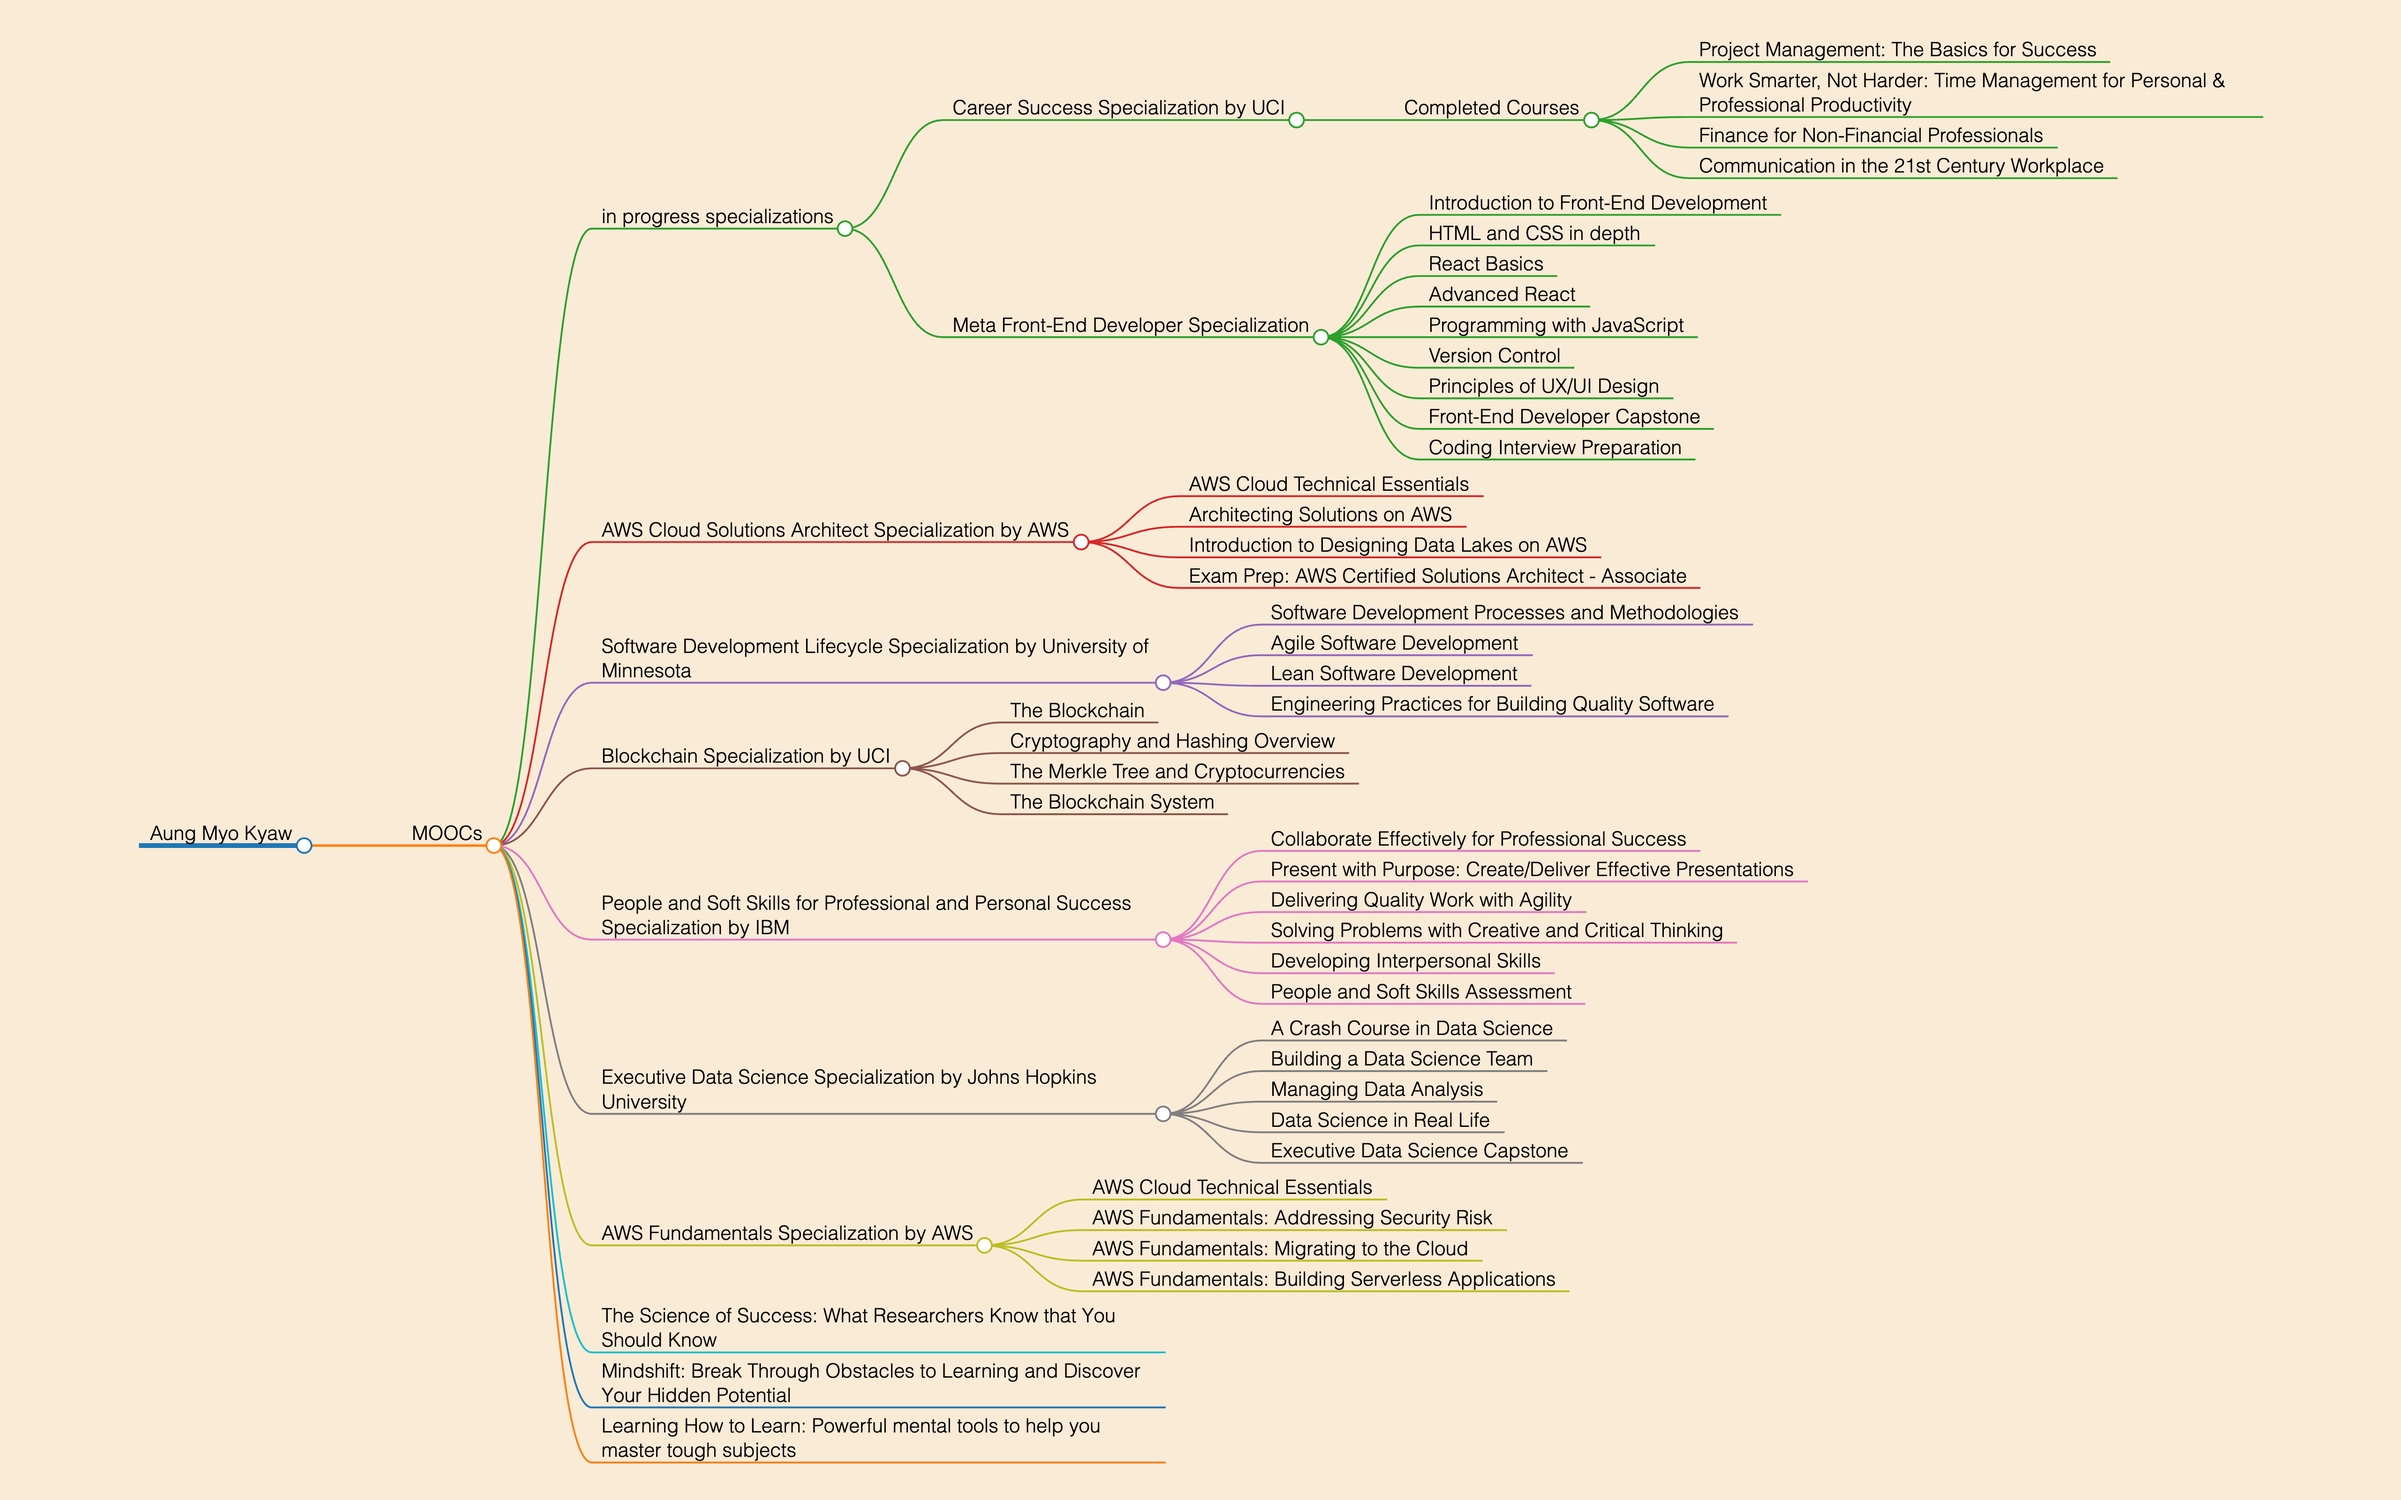
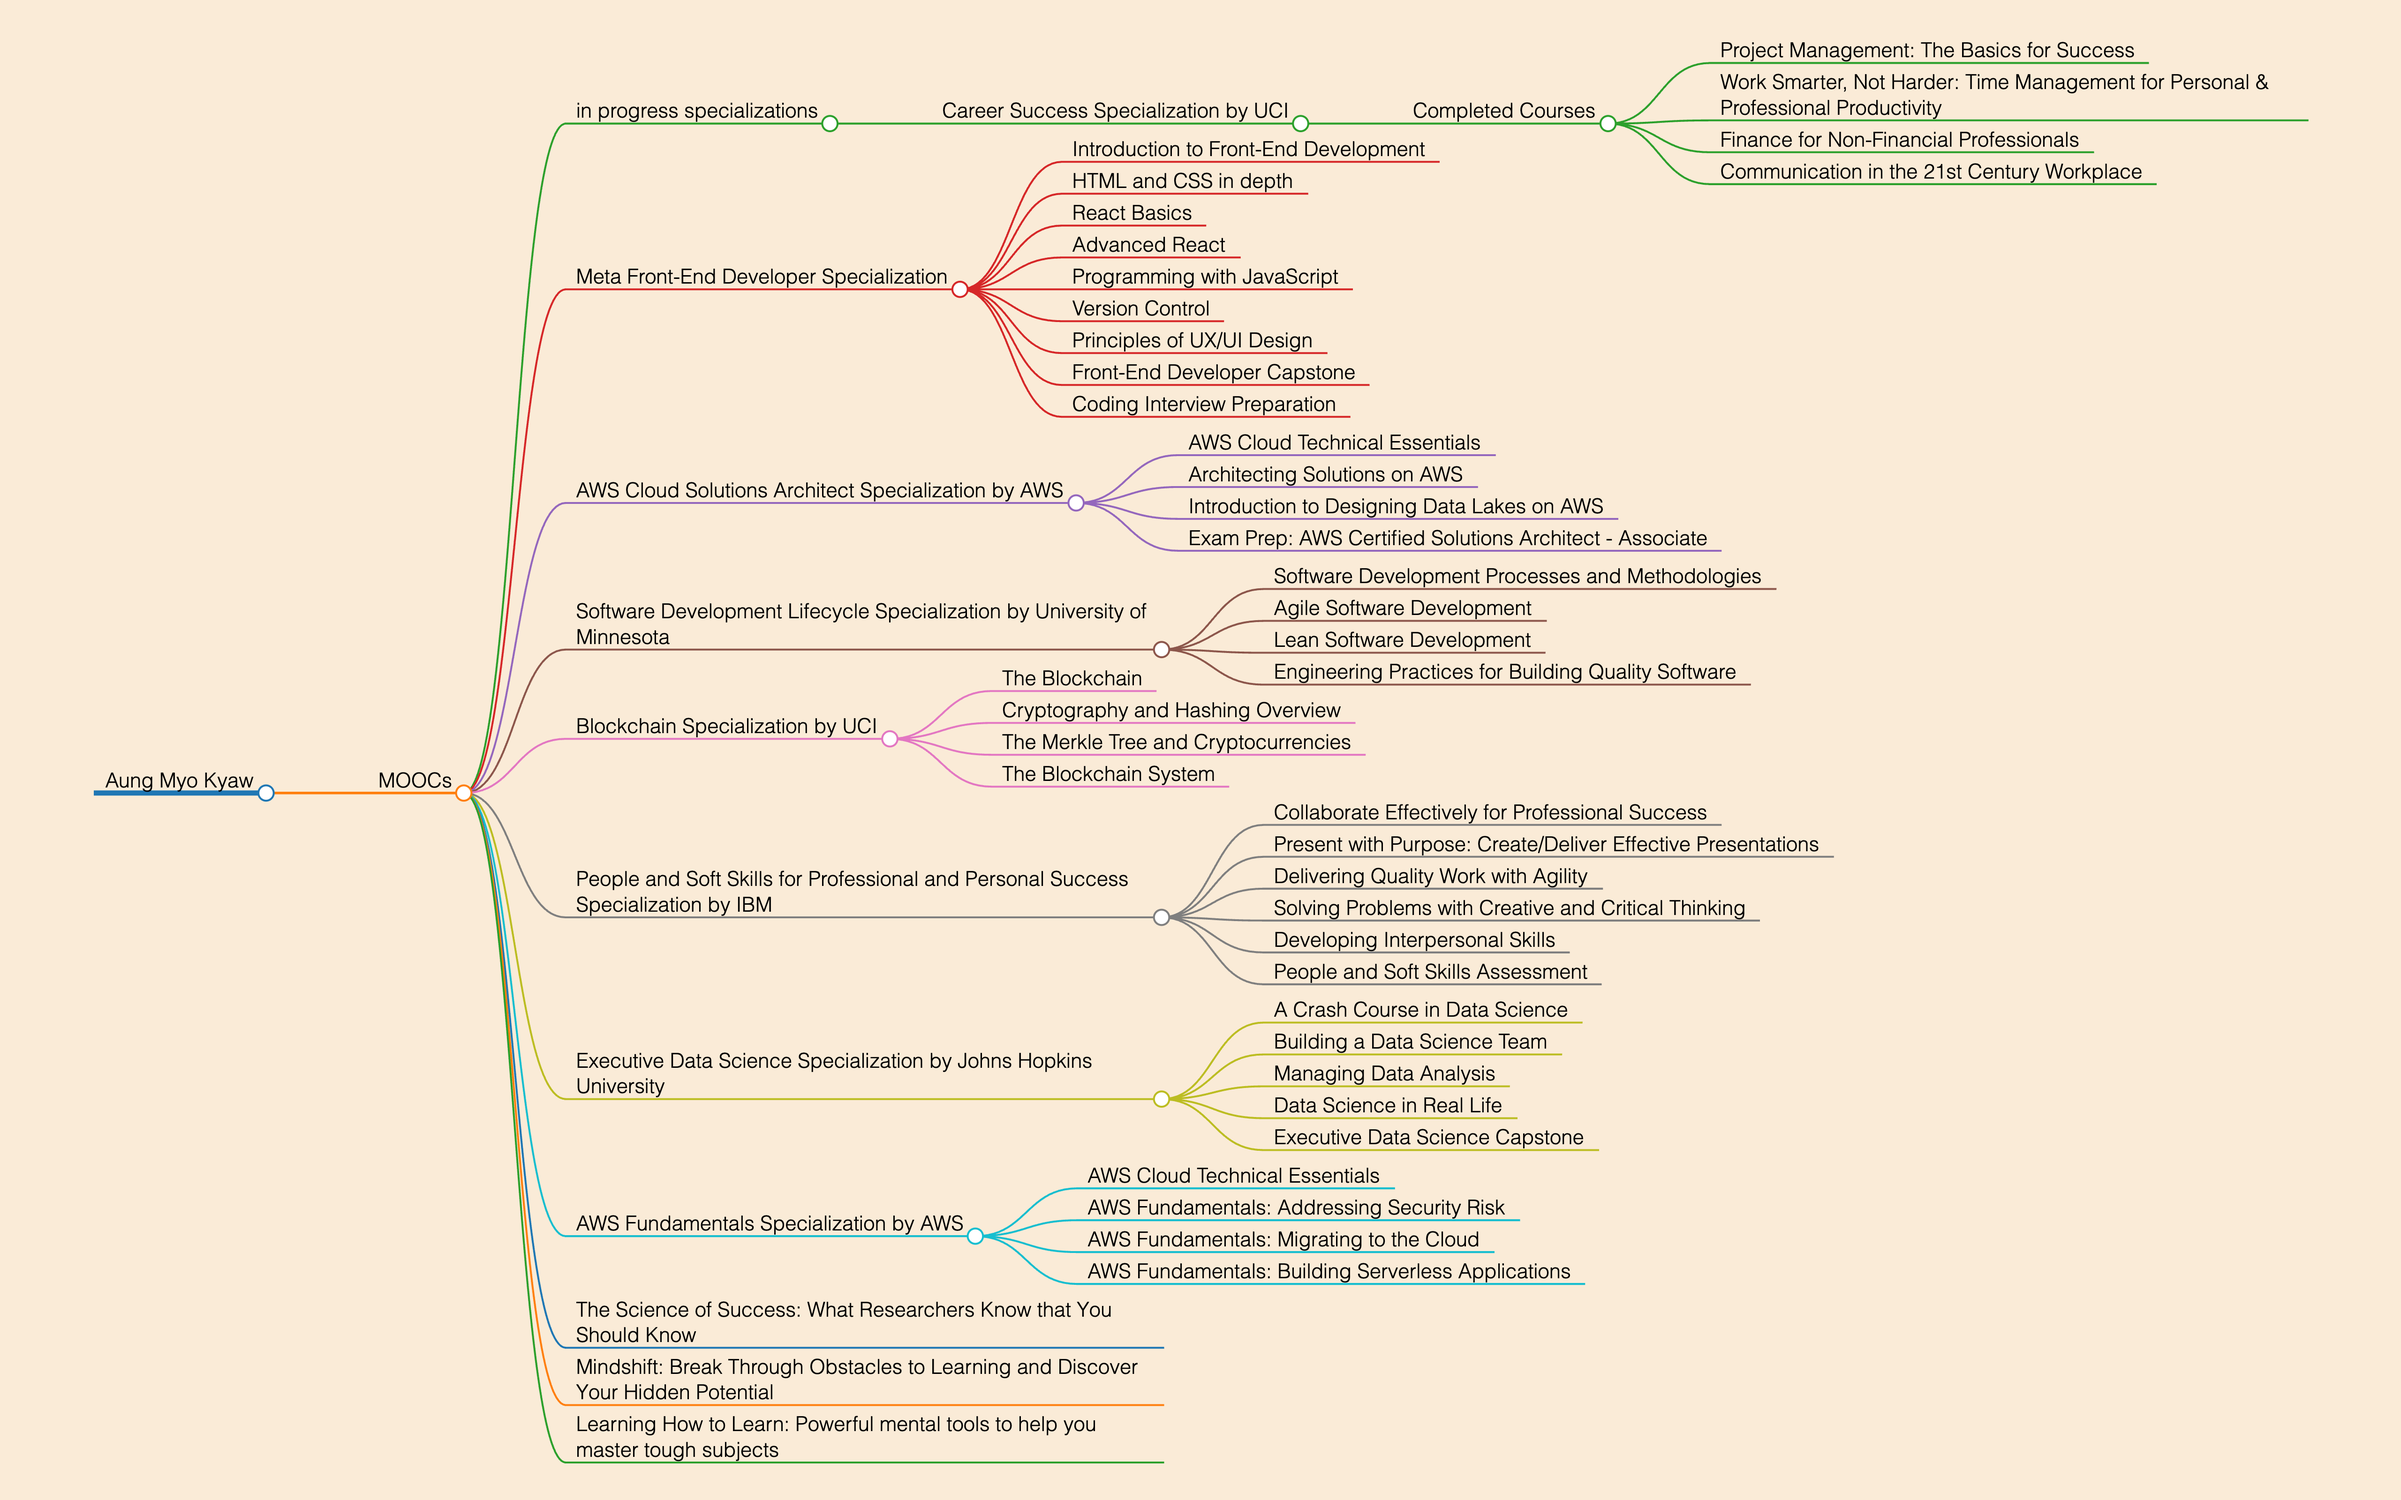
feat: move meta front end to completed

diff --git a/README.md b/README.md
@@ -34,7 +34,7 @@ markmap:
 
 ---
 
-#### [Meta Front-End Developer Specialization](https://www.coursera.org/account/accomplishments/specialization/certificate/X5EVPVJSCPFH)
+### [Meta Front-End Developer Specialization](https://www.coursera.org/account/accomplishments/specialization/certificate/X5EVPVJSCPFH)
 
 - [Introduction to Front-End Development](https://www.coursera.org/account/accomplishments/certificate/3ZXBQMYRVE4J)
 - [HTML and CSS in depth](https://www.coursera.org/account/accomplishments/certificate/UZ8E4TBRTN7M)
